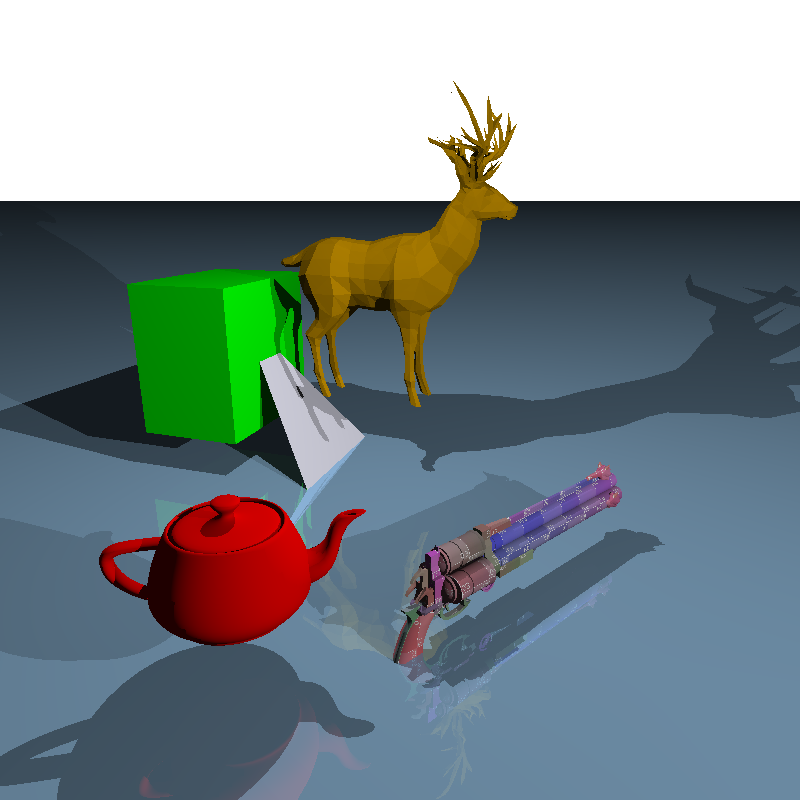
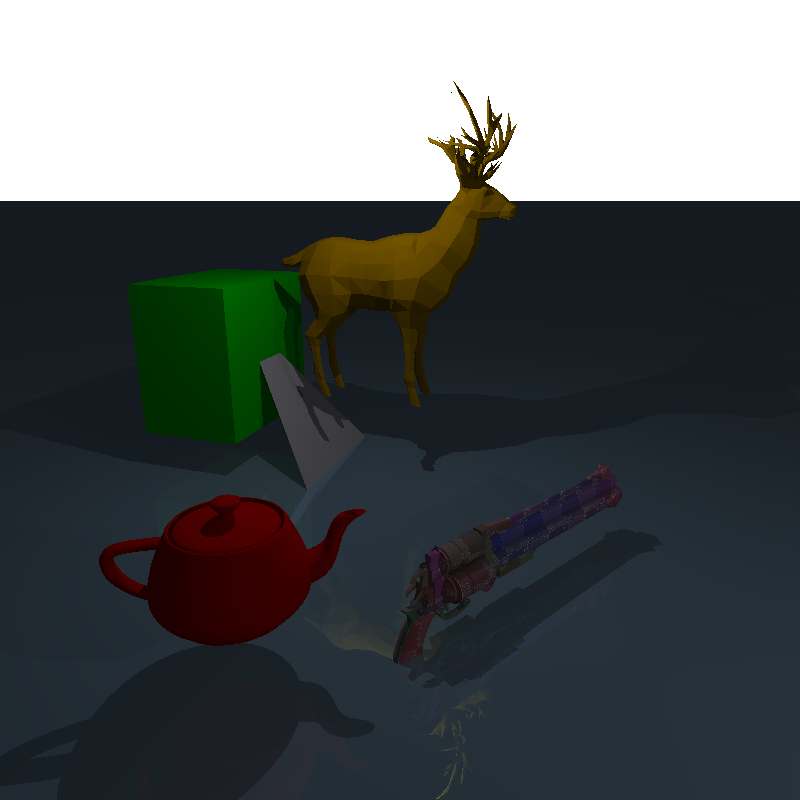
Attenuate point lights by distance squared

diff --git a/src/scene.rs b/src/scene.rs
@@ -238,7 +238,7 @@ impl RaytracingScene {
             for light in &self.lights {
                 match light {
                     Light::Ambient(light) => {
-                        ambient_light += light.color.component_mul(&material_color);
+                        ambient_light += light.get_color().component_mul(&material_color);
                     }
                     Light::Point(light) => {
                         let light_position = light.get_position();
@@ -257,12 +257,13 @@ impl RaytracingScene {
 
                             ray_count += 1;
                             if !self.shadow_cast(&shadow_ray, light_distance) {
-                                irradiance += light.color.component_mul(&material_color) * n_dot_l;
+                                let light_color = light.get_color(light_distance);
+                                irradiance += light_color.component_mul(&material_color) * n_dot_l;
 
                                 let half_vec = Unit::new_normalize(light_dir - ray.direction);
                                 let n_dot_h = normal.dot(&half_vec);
                                 if n_dot_h > 0.0 {
-                                    irradiance += light.color.component_mul(&material.specular)
+                                    irradiance += light_color.component_mul(&material.specular)
                                         * n_dot_h.powf(material.shininess);
                                 }
                             }
@@ -352,7 +353,7 @@ impl RaytracingScene {
         for light in &self.lights {
             match light {
                 Light::Ambient(light) => {
-                    ambient_light += light.color.component_mul(&material_color);
+                    ambient_light += light.get_color().component_mul(&material_color);
                 }
                 Light::Point(light) => {
                     let light_position = light.get_position();
@@ -374,7 +375,8 @@ impl RaytracingScene {
                             let half_vec = Unit::new_normalize(light_dir - ray.direction);
                             let n_dot_h = normal.dot(&half_vec).max(0.0);
 
-                            let radiance = light.color * n_dot_l;
+                            let light_color = light.get_color(light_distance);
+                            let radiance = light_color * n_dot_l;
 
                             let ndf = core::ndf(n_dot_h, roughness);
                             let g = core::geometry_function(n_dot_v, n_dot_l, roughness);
@@ -635,6 +637,7 @@ mod test {
         ]))));
         scene.add_light(Light::Point(Box::new(PointLight::new(
             Vector3::from([0.5, 0.5, 0.5]),
+            1.0,
             Transform::identity().translate(Vector3::from([-8.0, 3.0, 0.0])),
         ))));
 
@@ -706,6 +709,7 @@ mod test {
             ]))));
             scene.add_light(Light::Point(Box::new(PointLight::new(
                 Vector3::from([0.5, 0.5, 0.5]),
+                1.0,
                 Transform::identity().translate(Vector3::from([-8.0, 3.0, 0.0])),
             ))));
 

diff --git a/src/lights/point.rs b/src/lights/point.rs
@@ -1,12 +1,13 @@
 use crate::core::{Transform, Transformed};
-use nalgebra::Vector3;
+use nalgebra::{clamp, Vector3};
 use serde::Deserialize;
 
 #[derive(Clone, Debug, Deserialize)]
 #[serde(default, deny_unknown_fields)]
 pub struct PointLight {
     transform: Transform,
-    pub color: Vector3<f64>,
+    color: Vector3<f64>,
+    intensity: f64,
 }
 
 impl Default for PointLight {
@@ -14,13 +15,22 @@ impl Default for PointLight {
         Self {
             transform: Transform::default(),
             color: Vector3::from([1.0; 3]),
+            intensity: 10.0,
         }
     }
 }
 
 impl PointLight {
-    pub fn new(color: Vector3<f64>, transform: Transform) -> Self {
-        Self { color, transform }
+    pub fn new(color: Vector3<f64>, intensity: f64, transform: Transform) -> Self {
+        Self {
+            transform,
+            color,
+            intensity,
+        }
+    }
+
+    pub fn get_color(&self, distance: f64) -> Vector3<f64> {
+        (self.intensity * self.color / distance.powi(2)).map(|c| clamp(c, 0.0, 1.0))
     }
 }
 

diff --git a/src/lights/ambient.rs b/src/lights/ambient.rs
@@ -1,4 +1,3 @@
-use crate::core::{Transform, Transformed};
 use nalgebra::Vector3;
 use num_traits::identities::Zero;
 use serde::Deserialize;
@@ -6,7 +5,7 @@ use serde::Deserialize;
 #[derive(Copy, Clone, Debug, Deserialize)]
 #[serde(default, deny_unknown_fields)]
 pub struct AmbientLight {
-    pub color: Vector3<f64>,
+    color: Vector3<f64>,
 }
 
 impl Default for AmbientLight {
@@ -21,10 +20,8 @@ impl AmbientLight {
     pub fn new(color: Vector3<f64>) -> Self {
         Self { color }
     }
-}
 
-impl Transformed for AmbientLight {
-    fn get_transform(&self) -> &Transform {
-        unimplemented!()
+    pub fn get_color(&self) -> Vector3<f64> {
+        self.color
     }
 }

diff --git a/renders/renders.md b/renders/renders.md
@@ -2,31 +2,31 @@
 
 #### `scenes/scene.json`
 
-800 x 800 pixels, 6,615,349 rays, 2.370s on i7 8650U
+800 x 800 pixels, 6,615,033 rays, 2.148s on i7 8650U
 
 ![scene.json](./scene.png)
 
 #### `scenes/mesh.json`
 
-800 x 800 pixels, 1,510,058 rays, 923ms on i7 8650U
+800 x 800 pixels, 1,510,058 rays, 934ms on i7 8650U
 
 ![mesh.json](./mesh.png)
 
 #### `scenes/refraction.json`
 
-800 x 800 pixels, 22,266,483 rays, 1.626s on i7 8650U
+800 x 800 pixels, 25,368,533 rays, 1.642s on i7 8650U
 
 ![refraction.json](./refraction.png)
 
 #### `scenes/physical.json`
 
-800 x 800 pixels, 74,799,019 rays, 10.554s on i7 8650U
+800 x 800 pixels, 74,787,671 rays, 11.229s on i7 8650U
 
 ![physical.json](./physical.png)
 
 #### `scenes/mesh_test.json`
 
-800 x 800 pixels, 2,004,244 rays, 1.539s on i7 8650U
+800 x 800 pixels, 2,004,244 rays, 1.801s on i7 8650U
 
 ![mesh_test.json](./mesh_test.png)
 

diff --git a/README.md b/README.md
@@ -21,7 +21,7 @@ A ray tracer written in Rust which implements Blinn-Phong shading and physically
 
 Other renders can be found in the [renders](./renders/renders.md) folder.
 
-`scenes/scene.json` (800 x 800 pixels, 6,615,349 rays, 2.370s on i7 8650U):
+`scenes/scene.json` (800 x 800 pixels, 6,615,033 rays, 2.148s on i7 8650U):
 
 ![scene.json](./renders/scene.png)
 
